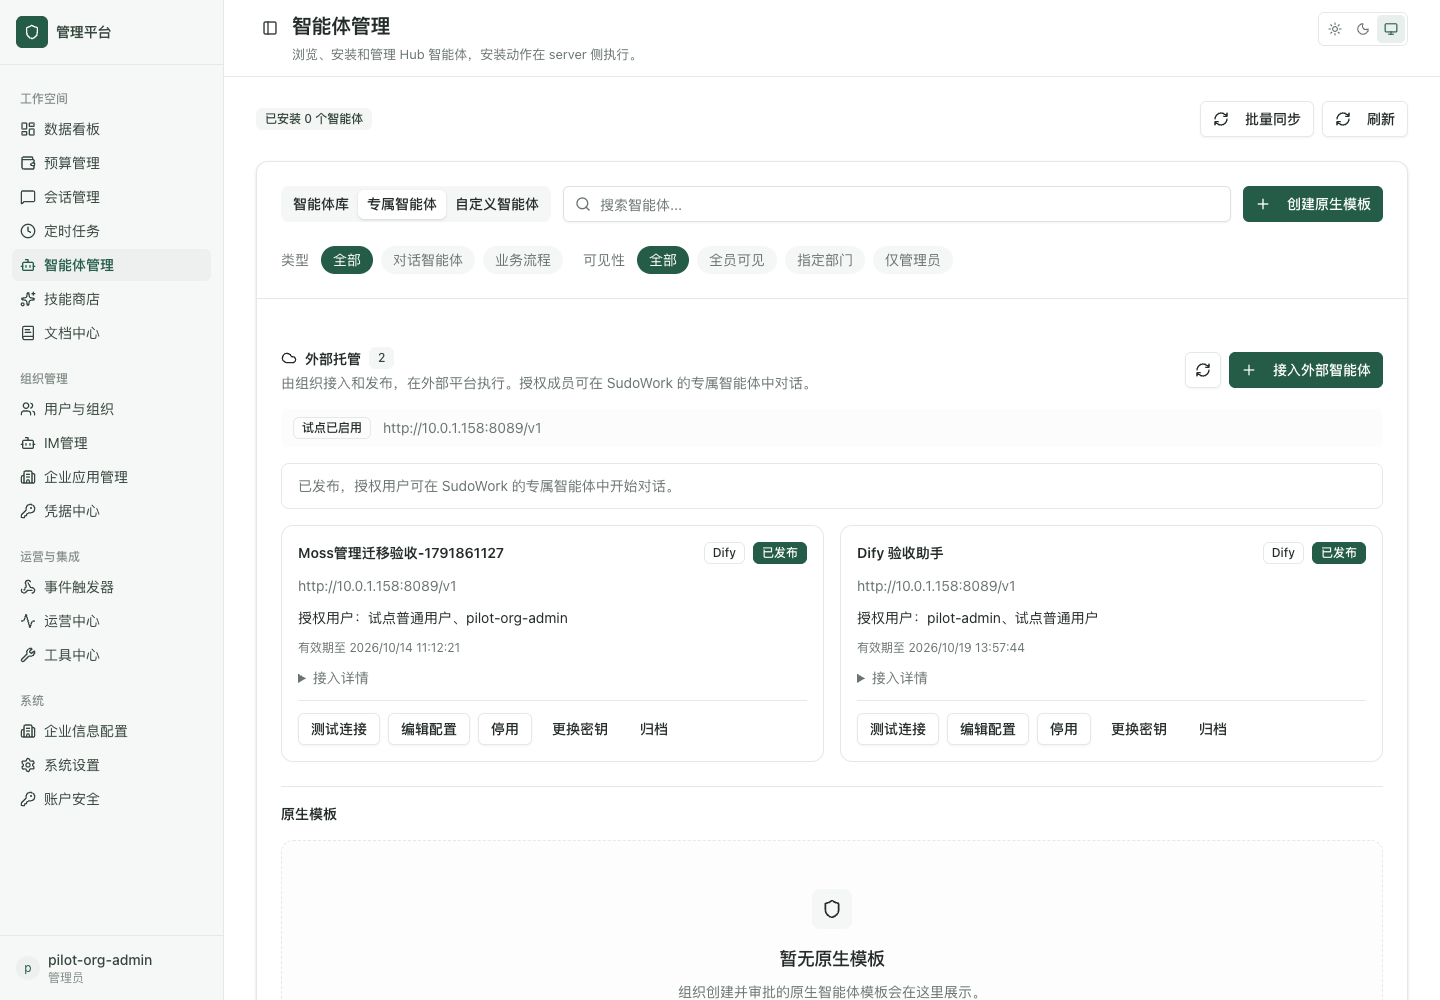
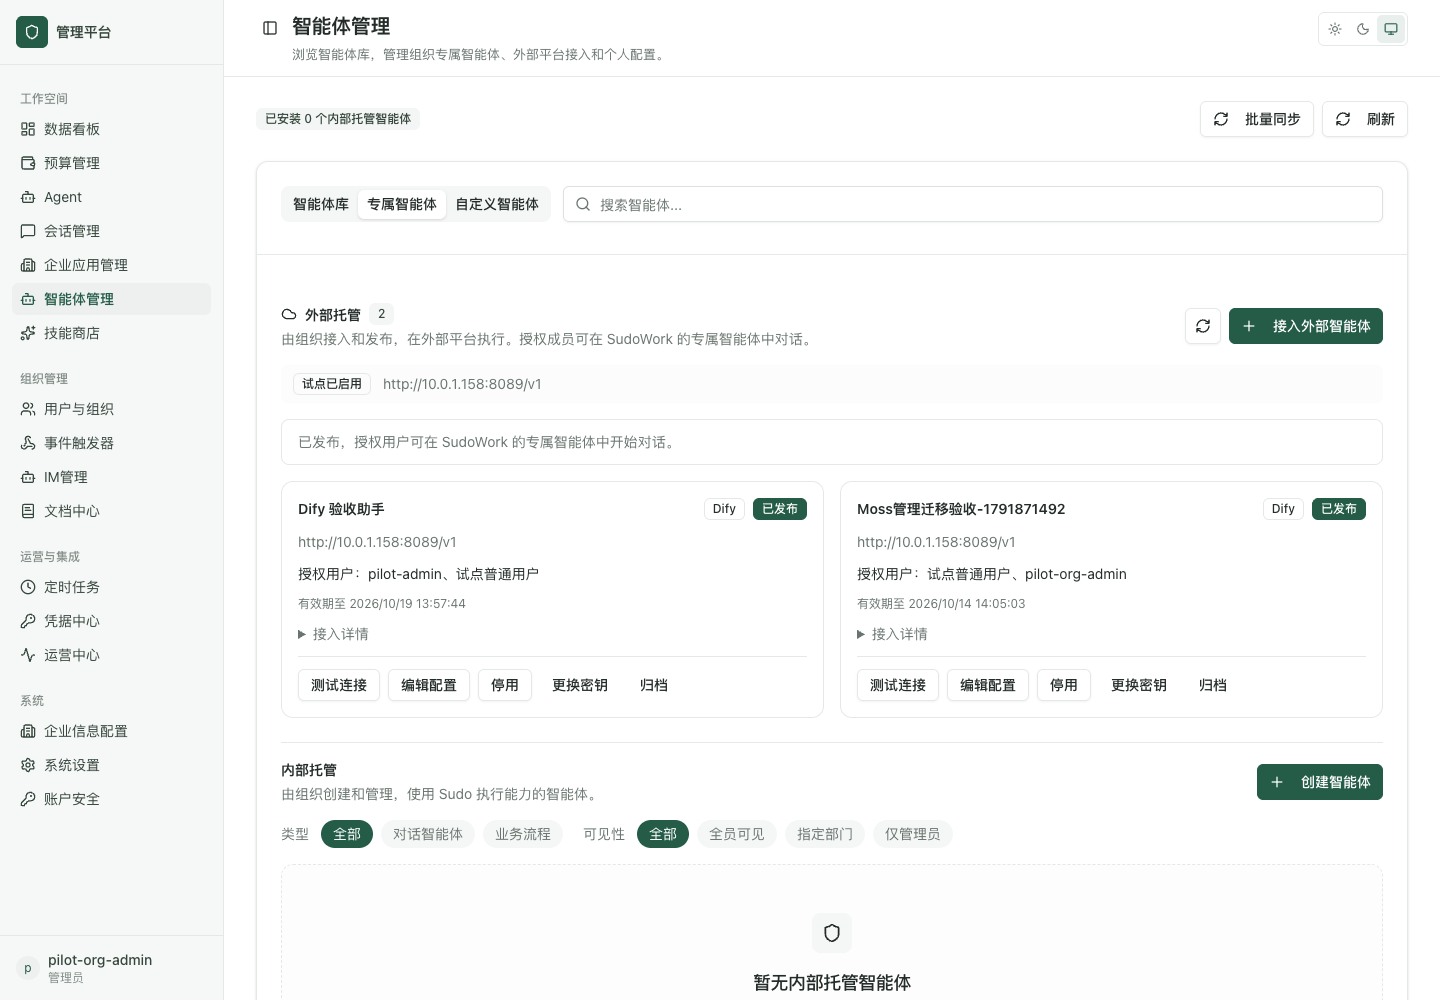
test(external-providers): verify rebased pilot and record delivery

diff --git a/scripts/run-node-tests.js b/scripts/run-node-tests.js
@@ -84,6 +84,7 @@ const nodeTestFiles = [
   'src/server/billing/sudorouterAdapter.node-test.ts',
   'src/server/billing/walletService.node-test.ts',
   'src/server/catalog/catalogArtifactStore.node-test.ts',
+  'src/server/catalog/tenantExternalIsolation.node-test.ts',
   'src/server/catalog/catalogRepository.node-test.ts',
   'src/server/catalog/organizationResources.node-test.ts',
   'src/server/catalog/organizationResourceRoutes.node-test.ts',

diff --git a/docs/dify-development-test-summary-2026-10-13.md b/docs/dify-development-test-summary-2026-10-13.md
@@ -1,0 +1,147 @@
+# Dify 外部智能体接入：开发与测试总结
+
+更新日期：2026-10-13。本文覆盖需求实施、管理入口迁移、桌面/WebUI 命名统一，以及三个仓库 rebase 后的验证和 PR 交付。
+
+## 1. 交付结果
+
+组织管理员在 Moss 的“智能体管理 → 专属智能体 → 外部托管”接入、授权和发布 Dify 应用；授权用户在 SudoWork 的“智能体列表 → 专属智能体 → 外部托管”选择应用，进入统一对话并查看历史。
+
+桌面端和 WebUI 共用“智能体库 / 专属智能体 / 我的智能体”页签。专属页分为“外部托管 / 内部托管”；Moss 对应分区分别提供“接入外部智能体”和“创建智能体”，内部类型/可见性筛选也放在内部托管分区。
+
+这是已验证的合成数据试点。生产准入、正式通用 Task 契约、所有外部平台的即插即用能力，不在本次完成声明内。
+
+## 2. 仓库、基线与 PR
+
+统一工作分支：`codex/dify-external-pilot-20261012`。
+
+| 仓库 | rebase 目标及本次拉取的基线 | PR |
+|---|---|---|
+| moss | dev · `586fa29` | 待创建 |
+| sudowork | dev · `aad96f70` | 待创建 |
+| sudostack | main · `d856bd7` | 待创建 |
+
+三个原工作区及其他 worktree 均保留。rebase 前的提交保存于各仓库本地 `refs/codex-backups/dify-before-rebase-20261013`；未合并 PR、未部署生产。
+
+冲突处理保留最新 SudoWork 0.2.29 版本字段与 packageManager，沿用上游共享 ConversationHistoryContext 和“最近”默认折叠，再叠加外部会话展示投影；Moss 测试清单保留双方新增用例，并补登记目录隔离用例。
+
+## 3. 契约和调用方式
+
+```mermaid
+flowchart LR
+  A[Moss 组织管理员] --> B[登记 / 授权 / 审核发布]
+  C[SudoWork 桌面端或 WebUI] --> D[Moss 统一 Task API]
+  B --> D
+  D --> E[Dify 适配器]
+  E --> F[Dify Chatflow]
+  F --> E
+  E --> G[Moss Task / Attempt / Event]
+  G --> C
+  H[Nexus Secret] --> E
+```
+
+### 3.1 语义定义与派生
+
+- 版本：`external-provider.sudo.dev/v1alpha1`，实验 profile 为 `synthetic_pilot`，执行模式为 `external_hosted`。
+- 唯一可编辑的契约语义源：Moss `contracts/external-provider/v1/contract.ts`。
+- rebase 后固定来源提交：`5034b39feaa770d72e7cdfc36362d149f76fd617`。
+- 内容摘要：`sha256:c184ba20572d25a13447faf04d872d7a9e7e5903ed811a36b35802dee1c7209c`。本轮只更新来源提交，契约内容未变。
+- sudostack 的 `contracts/experimental/external-provider/` 保存来源锁和生成工具；SudoWork 的 `packages/contracts/src/external-provider.gen.ts` 消费同源只读副本。
+- 不修改稳定 `@sudo/contracts` exports，不把相关 Proposed ADR 声明为 Accepted，也不声明已实现正式 `task.sudo.dev/v1`。
+
+Dify 继续提供自己的 Service API，由 Moss 适配器完成转换。后续接入 Coze、LangGraph 或自研平台，需要实现各平台适配器、输入与能力校验、状态映射和回归测试；当前不能仅换地址就接入任意平台。
+
+### 3.2 接口与状态
+
+| 入口 | 含义 |
+|---|---|
+| `GET /api/v1/external-agents` | 当前用户已获授权、可执行的目录 |
+| `external-agents/admin/*` | 管理权限、范围、成员、连接测试、接入、更新、换钥、归档 |
+| `POST /api/v1/external-agents/:id/review` | 按 revision 审核发布或撤销 |
+| `POST /api/v1/tasks` | agent_id、可选 session_id、query、idempotency_key |
+| `GET /api/v1/tasks/:id` 与 `/events?cursor=...` | 任务状态、结果与有序增量事件 |
+| `external-sessions` 及其历史接口 | 当前用户的外部会话与任务历史 |
+
+客户端身份和组织由 Moss 登录令牌确定，不信任请求自报 owner。桌面端使用 IPC → Moss HTTP；WebUI 使用同一 bridge 契约 → Session 代理 → Moss HTTP。
+
+Dify SSE 被归一化并持久化；Moss 到客户端目前采用 cursor 轮询。Sudo Session/Task/Attempt 和 Dify conversation/message/task/workflow_run 分别标识，通过 provider_refs 关联。派发意图和幂等记录先持久化，不能确认远端结果时进入 unknown，禁止自动重放。
+
+### 3.3 数据归属
+
+| 数据 | 当前权威源 |
+|---|---|
+| Dify 应用定义、Prompt、Chatflow | Dify；Moss 不提供可编辑的副本 |
+| 接入目录、连接、授权和审核 | Moss 既有 Catalog / Identity Repository |
+| App API Key | Nexus Secret；不随用户目录响应下发 |
+| 试点外部 Session / Task / Attempt / Event | Moss DbDriver 过渡性持久化 |
+| 客户端时间线 | 只读展示投影；不写成原生 ACP/个人智能体会话 |
+
+Moss 外部任务库不是全部 Sudo Task/Session 的长期事实源；长期持久化与 transcript 责任边界仍需后续方案收敛。
+
+## 4. 主要开发内容
+
+**Moss：** 完成组织端点策略、Dify 连接预检、定义上传、成员授权、显式审核、编辑、换钥、停用和归档；管理页面按账号/组织重建，离开页面中止旧请求，关闭表单清空密钥；状态冲突和 provider 错误转换为安全提示。原生模板接口排除 external_hosted，消除重复下载入口与规则 404。修复 SQLite 并发事务等待者唤醒后未再次检查占用的问题。
+
+**SudoWork：** 共用 client、IPC、WebUI 代理和页面；外部条目仅进入专属目录，管理操作迁到 Moss。统一对话支持增量回答、多轮关联、刷新和跨端历史读取；最近/时间分组展示外部会话，但不开放原生改名、置顶、删除和导出。旧外部页链接兼容跳转。
+
+**sudostack：** 分发实验契约，固定语义源提交和摘要，提供可重生成和核验的工具，保持稳定契约包边界。
+
+## 5. 测试结果
+
+### 5.1 本次 rebase 后的自动验证
+
+| 检查 | 结果 |
+|---|---|
+| Moss server 兼容套件 | 两运行器通过；保留仓库已有跳过及两项不可加载用例 |
+| Moss 显式 Node 套件 | 902 通过 / 3 跳过 |
+| Moss admin 管理 API、凭据和组织客户端 | 13 通过 |
+| Moss Node 与 admin 资源构建 | 通过 |
+| Moss server ESLint | 通过 |
+| Moss 类型基线检查 | 104 等于允许基线 104；不是全仓零类型错误 |
+| SudoWork workspace 包构建 | 通过 |
+| renderer、desktop、WebUI、Moss admin 类型检查 | 通过 |
+| SudoWork 全量 | 3136 通过 / 30 跳过（单 worker 完整复跑） |
+| WebUI 单元测试 | 239 通过 |
+| SudoWork 格式与 lint | 两处格式已修正；renderer 0 错误、152 个现有警告 |
+| sudostack 测试 | 139 通过 |
+| sudostack 类型、离线生成及实验契约核验 | 通过 |
+| 三仓契约来源/摘要一致性 | 通过 |
+
+首轮 SudoWork 全量在同时构建和检查期间，已有 ontologyWorkbench DOM 用例超过 10 秒：3135 通过、30 跳过、1 超时。未修改超时阈值或跳过测试，降低并发后完整复跑通过。Moss 首次完整命令发现隔离测试未登记，补清单后 Node 套件通过。
+
+### 5.2 实际界面和 Dify 验收
+
+2026-10-13 14:05–14:06（Asia/Shanghai），已在 rebase 后构建并重启的完整服务上重新验收：
+
+- Moss 管理 + WebUI：10 组检查全部通过。包括平台端点策略、真实组织管理员权限、错误 key 阻断、接入授权、审核发布、真实 Dify 42→50、编辑/换钥重新审核、停用和归档保留历史、普通用户无管理入口。`pageErrors=[]`。
+- Electron：4 组检查全部通过。三个目录页签与两个托管分区一致，个人页不显示组织智能体；真实 IPC → Moss → Dify 的 7×8 返回 56；刷新后历史恢复，外部会话进入统一历史。原生会话源隔离另有 DOM 回归覆盖。`pageErrors=[]`。
+- 临时接入已归档，原有“Dify 验收助手”、远端 Dify 应用和 App key 保持不变。各服务保持运行。
+- 管理验收第一次完整操作后，末尾校验仍使用旧“原生模板”文案而超时；更新测试选择器为当前“内部托管”后，完整复跑通过。未因此修改产品逻辑。
+
+此前已通过的界面验收：平台管理员配置范围；组织管理员接入、选择成员并发布；错误 key 被拒绝；编辑/换钥撤销发布；停用/归档保留只读历史；普通用户无管理入口；WebUI 真实42→50，桌面真实7×8→56并刷新恢复。三端名称及两个分区按钮也已验证。
+
+证据入口：Moss `docs/external-provider-pilot/evidence/`。本次对应 `moss-management-migration-result.json`、`moss-exclusive-management.png`、`moss-published-client-chat.png`、`rebase-desktop-result.json` 和 `rebase-desktop-chat.png`；其他文件保留为此前阶段证据。开发机完整日志为 `/tmp/dify-rebase-*.log`，本地运行指南为 `~/.local/share/dify-pilot-20261012/manual-verification.md`。文档不保存登录密码或 App Key。
+
+## 6. 人工操作步骤
+
+1. Moss 组织管理员进入“智能体管理 → 专属智能体 → 外部托管”，点击“接入外部智能体”。首次启用组织范围由平台管理员完成。
+2. 选择 Dify API 地址，输入应用 App API Key，测试连接；填写 App/Workspace ID，上传当前发布的 YAML/JSON，选择成员、填写审核说明并保存。
+3. 显式审核发布，选择 1/3/7 天有效期。编辑配置或换钥后需再次审核。
+4. 普通用户在 SudoWork“智能体列表 → 专属智能体 → 外部托管”点击“开始对话”，输入“6乘7，只返回数字”，再追问“上次结果加8，只返回数字”。
+5. 刷新或登录同账号的另一端检查历史；停用后禁止新任务，旧历史仍可查看。未知执行结果不会自动重发。
+
+本地入口：Moss `http://127.0.0.1:43128/admin/settings/agents`；WebUI `http://localhost:26808/#/app/agent`；完整 Electron 开发应用。测试角色为 pilot-admin（平台）、pilot-org-admin（组织）、pilot-user（普通用户）。
+
+## 7. 已知边界和后续工作
+
+- 仅审核过的简单 Start/LLM/Answer Chatflow 和合成数据；不支持复杂自定义输入、附件和本地工具，不执行模型返回的 actions。
+- 明确声明流式支持；取消、执行恢复、不可变版本 pin 不支持。source_digest 是核对证据，不能保证 Dify 实际执行固定版本。
+- 固定 IP/精确地址白名单、禁重定向属于首期范围控制；未完成通用 Nexus egress 与 Dify 内部模型/工具出口治理。
+- 本地 Moss 任务库为 SQLite。WebUI 的 PostgreSQL 不能作为 Moss TaskStore 已完成 PostgreSQL/多副本验收的证据。
+- 完整 Electron 开发应用验收不等于生产安装包验收；原生共享 Agent 运行时、云集群和其他平台不由这次外部 Dify 对话测试覆盖。
+- 后续需收敛正式跨平台契约、长期持久化迁移、带证据的结果核对/恢复、版本漂移治理、生产部署和出口治理。
+
+## 8. 合并与发布建议
+
+优先评审 Moss 的语义源和服务，再评审 sudostack 实验派生，最后配套 SudoWork 客户端。固定来源提交发布后需验证可获取性；三仓按同一契约版本配套上线。
+
+本次只创建 PR。最终合并、生产发布和生产准入需另行执行。CI 状态以对应 PR 页面为准。
